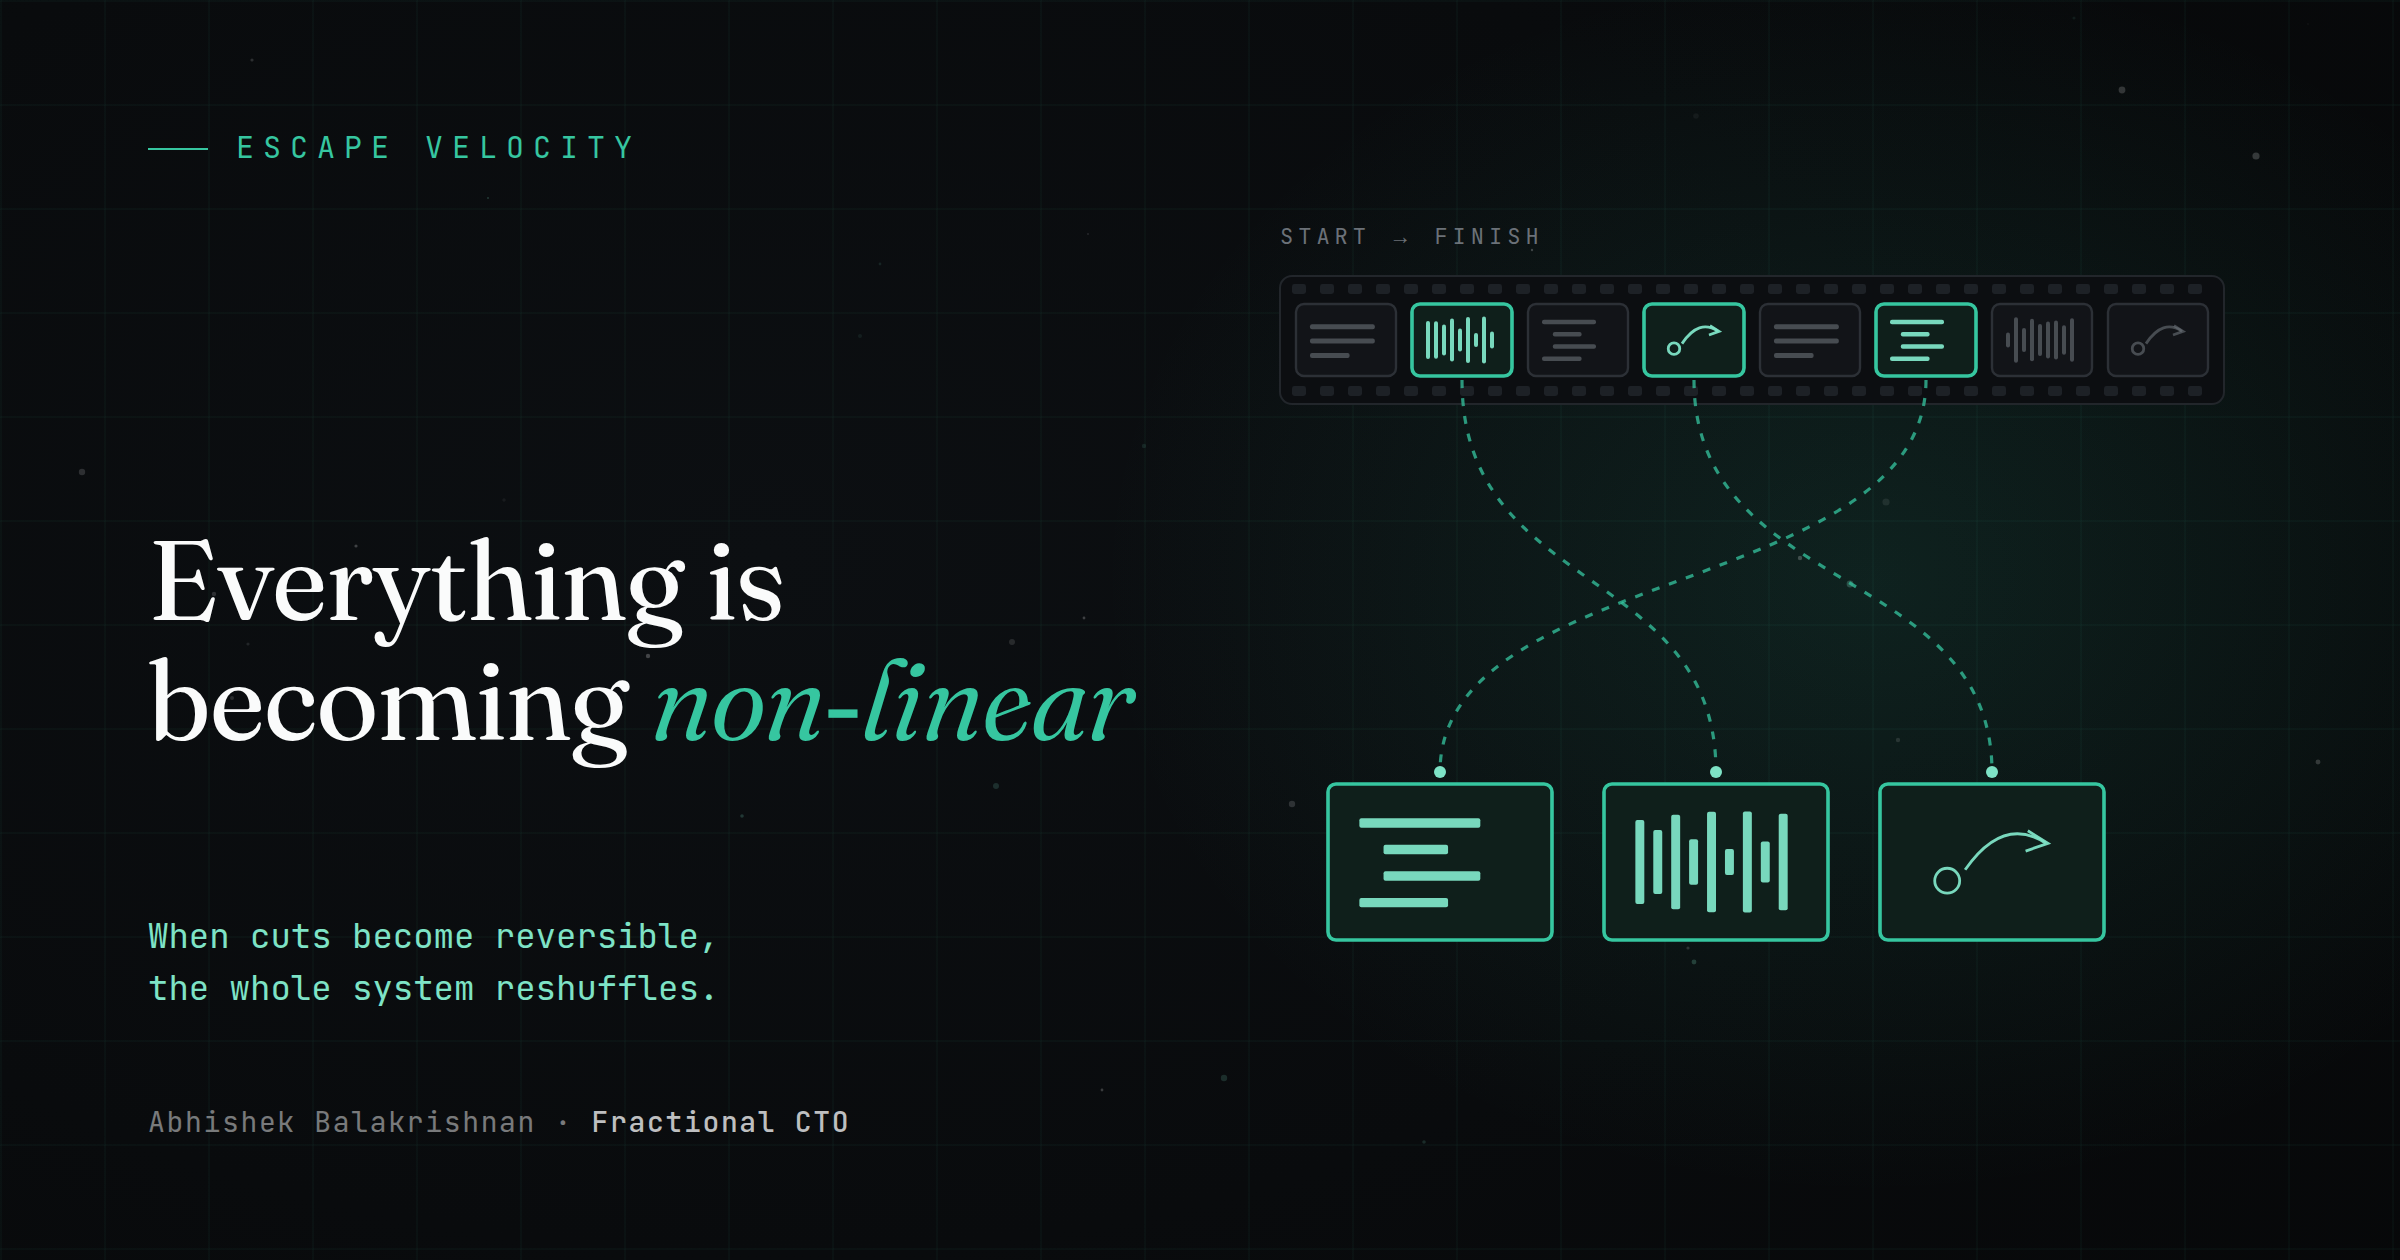
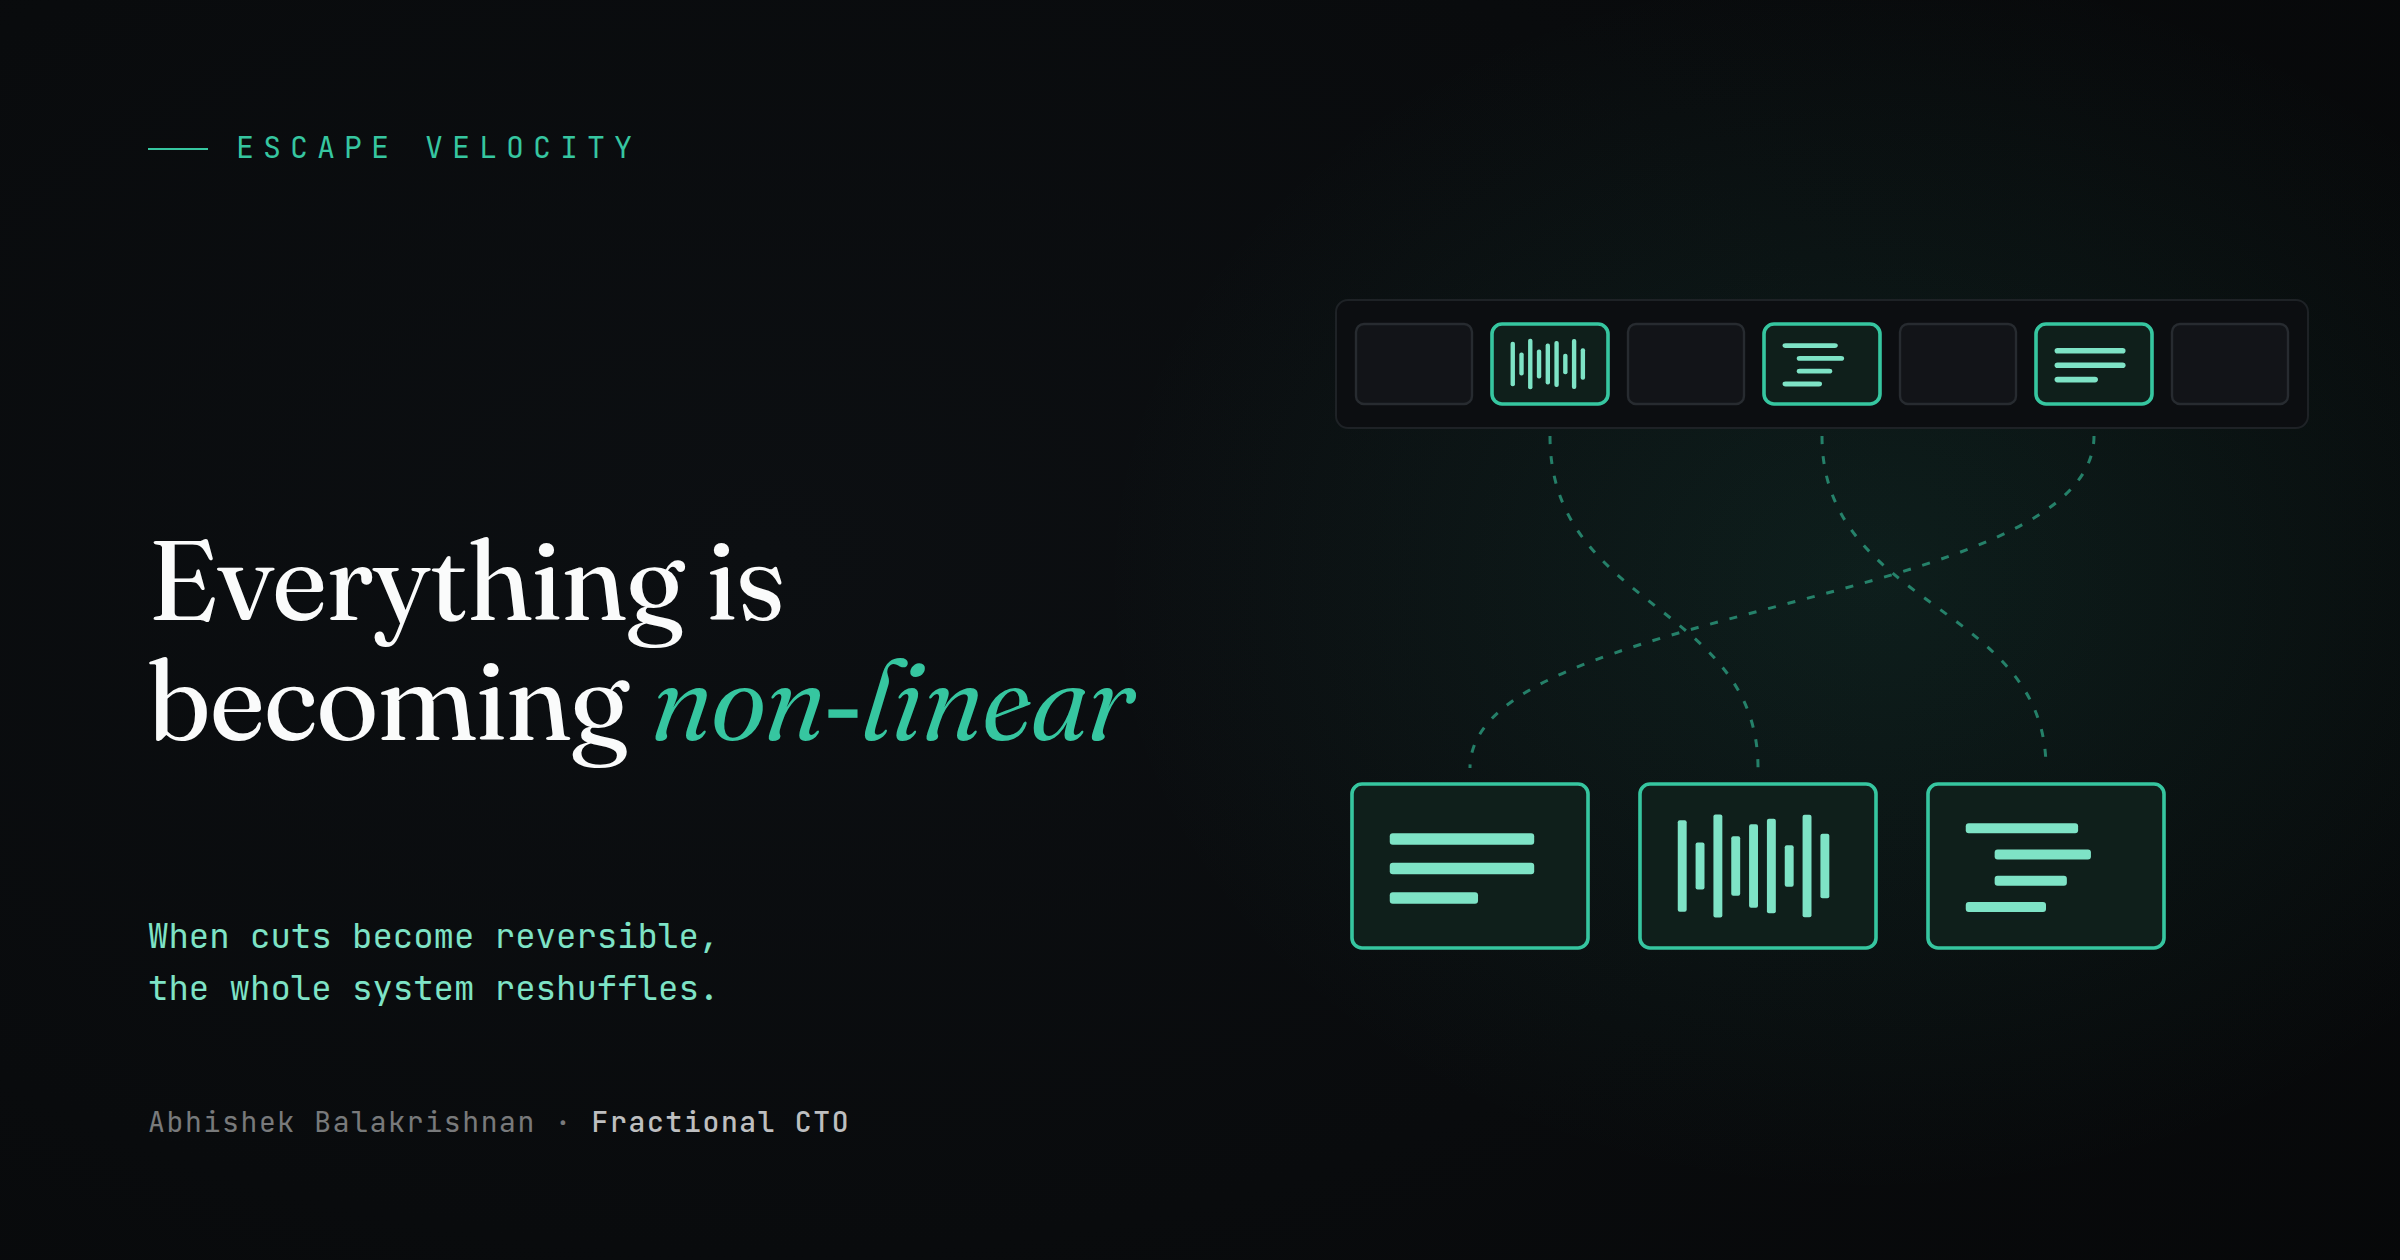
Revise non-linear preview: simpler visuals, tighter structure
- Simplify cover and inline image (empty frames, no sports glyph)
- Cut "new questions" point; move fluency last; three points
- Software meetings and closing question become section headers
- Remove game references; voice note to email to article close

Claude-Session: https://claude.ai/code/session_01Ne8875oE3z31NTm6gS7YeZ

Changed region(s): [[0.5625, 0.619, 0.9062, 0.7738], [0.5312, 0.2167, 0.9062, 0.3405], [0.6875, 0.2167, 0.7188, 0.2476]]

diff --git a/preview/everything-is-becoming-non-linear.md b/preview/everything-is-becoming-non-linear.md
@@ -19,19 +19,19 @@ Film used to be literally cut. Rearranging a scene meant taping and re-taping, a
 
 > "Junior editors leapfrogged veterans because software fluency mattered more than muscle memory with film. Shooting ratios exploded."
 
-More than 30 years later, the same shift is happening to everything we used to consume start to finish. Take the meeting. For most companies, a recorded meeting was a file nobody watched. Tools like Fireflies make it something you can query: what did we commit to, who raised the pricing concern, what changed since last month. The recording becomes an archive you can ask questions of. Sales calls, game film, and support tickets are going the same way, and when they do, four things follow.
+More than 30 years later, the same shift is happening to everything we used to consume start to finish. Take the meeting. For most companies, a recorded meeting was a file nobody watched. Tools like Fireflies make it something you can query: what did we commit to, who raised the pricing concern, what changed since last month. The recording becomes an archive you can ask questions of. Sales calls, support tickets, and codebases are going the same way, and when they do, three things follow.
 
 ![Linear: sit through it, start to finish. Non-linear: ask it, and get the cut.](/assets/images/reshuffle-linear-vs-nonlinear.png)
 
+**Capture explodes.** When reviewing was expensive, recording everything wasn't worth it. Once it's searchable, it is. Every meeting gets recorded, every customer call gets transcribed, every demo gets saved.
+
+**Analysis opens up.** It stops being a specialist's job. Tennis is a sport I follow closely, and the level of play has never been higher. It's hard not to think that access to analysis, once reserved for top coaches, is part of why.
+
 **Fluency beats muscle memory.** The person who is good at interrogating the archive leapfrogs the person whose edge was having sat through all of it. A new hire who knows how to ask the right questions of six months of calls can get up to speed faster than someone who was in the room. Knowing which question to ask becomes the skill.
 
-**Capture explodes.** When reviewing was expensive, recording everything wasn't worth it. Once it's searchable, it is. Every meeting gets recorded, every customer call gets transcribed, every game gets filmed.
+## Software meetings get reshuffled twice
 
-**Analysis opens up.** It stops being a specialist's job. Tennis is the one sport I follow closely, and the level of play has never been higher. It's hard not to think that access to analysis, once reserved for top coaches, is part of why.
-
-**New questions become askable.** Querying across everything surfaces patterns nobody could hold in their head. The objection that keeps showing up in lost deals. The complaint that comes up in every churned customer's last call. The work changes shape, not just speed.
-
-**Software meetings get reshuffled twice.** In a software organization, this goes a level further. Fireflies makes the recording of a meeting queryable. Claude Code makes the subject of the meeting queryable. Your architecture and your actual implementation are sitting in front of you, and you can query them while the discussion is happening.
+In a software organization, this goes a level further. Fireflies makes the recording of a meeting queryable. Claude Code makes the subject of the meeting queryable. Your architecture and your actual implementation are sitting in front of you, and you can query them while the discussion is happening.
 
 That changes what a technical meeting is. Instead of speculating about how something works and leaving with a long list of action items that never get followed up on, you validate findings in real time and use the system itself to explore options as you discuss them. "What would break if we changed this?" gets answered in the room.
 
@@ -39,6 +39,8 @@ It changes project management too. Status used to move in a straight line: a dev
 
 And it changes who gets heard. A non-technical manager, an architect, or a developer can advocate for themselves by showing their artifacts in real time instead of describing them from memory. That's fluency beating muscle memory again. The edge goes to whoever can ask the system the right question in the moment.
 
-**What's still being cut on celluloid in your business?** Look for what people still sit through start to finish: recordings, tickets, reports, logs. Ask who holds power because of it, and what you would capture if reviewing it were free. That's usually where the most useful AI work is hiding.
+## What's still being cut on celluloid in your business?
 
-This post started as an email. A few years ago, turning it into an essay would have meant starting over. Instead I reshuffled it. Cuts are reversible now, so draft first. That's the whole point of the book, and I recommend it. Choudary's own guide is here: [The Bento Box Guide to the Reshuffle](https://platforms.substack.com/p/the-bento-box-guide-to-the-reshuffle).
+Look for what people still sit through start to finish: recordings, tickets, reports, logs. Ask who holds power because of it, and what you would capture if reviewing it were free. That's usually where the most useful AI work is hiding.
+
+This post started as a voice note to a founder friend, then an email to another founder friend, and now this article. A few years ago, each step would have meant starting over. Instead I reshuffled it. Cuts are reversible now, so draft first. That's the whole point of the book, and I recommend it. Choudary's own guide is here: [The Bento Box Guide to the Reshuffle](https://platforms.substack.com/p/the-bento-box-guide-to-the-reshuffle).
